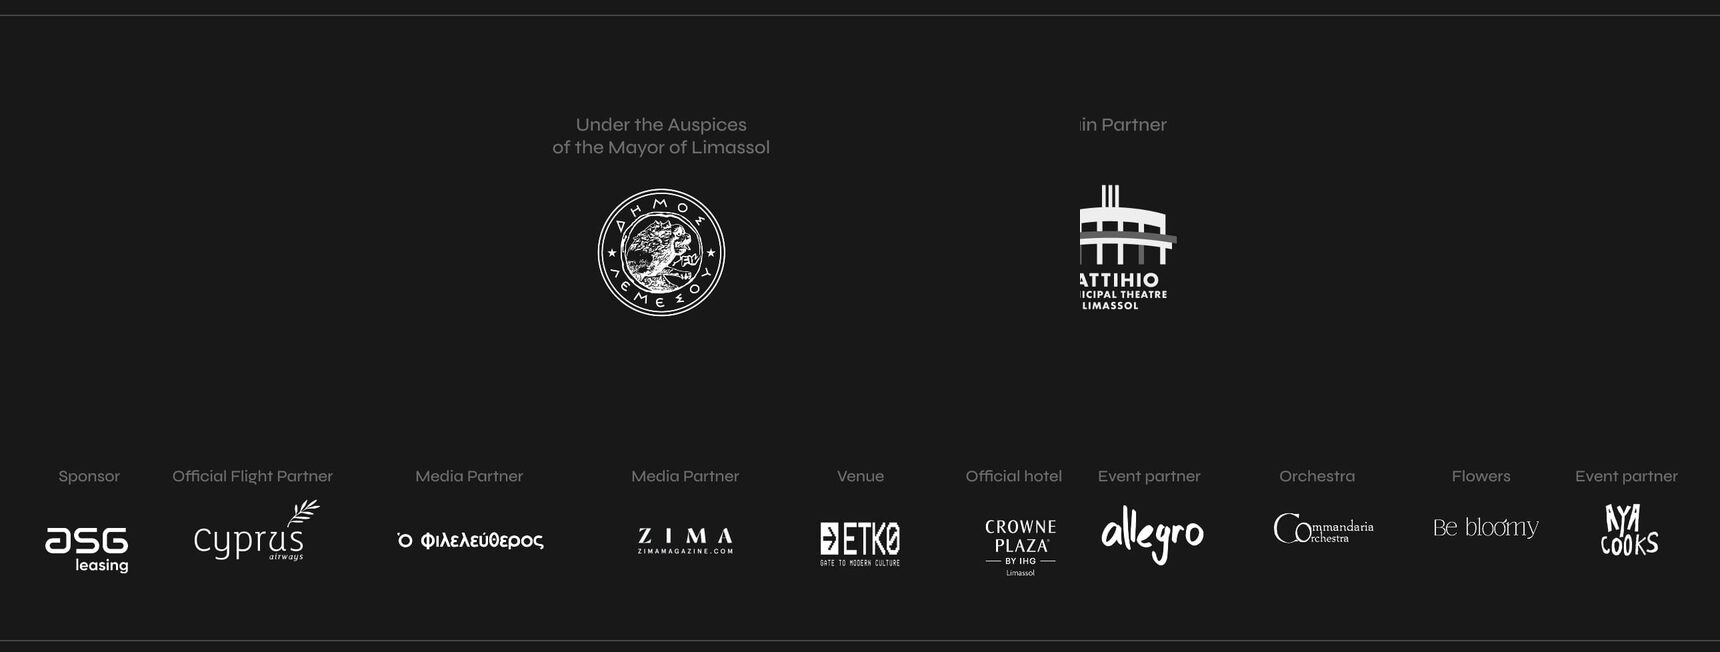
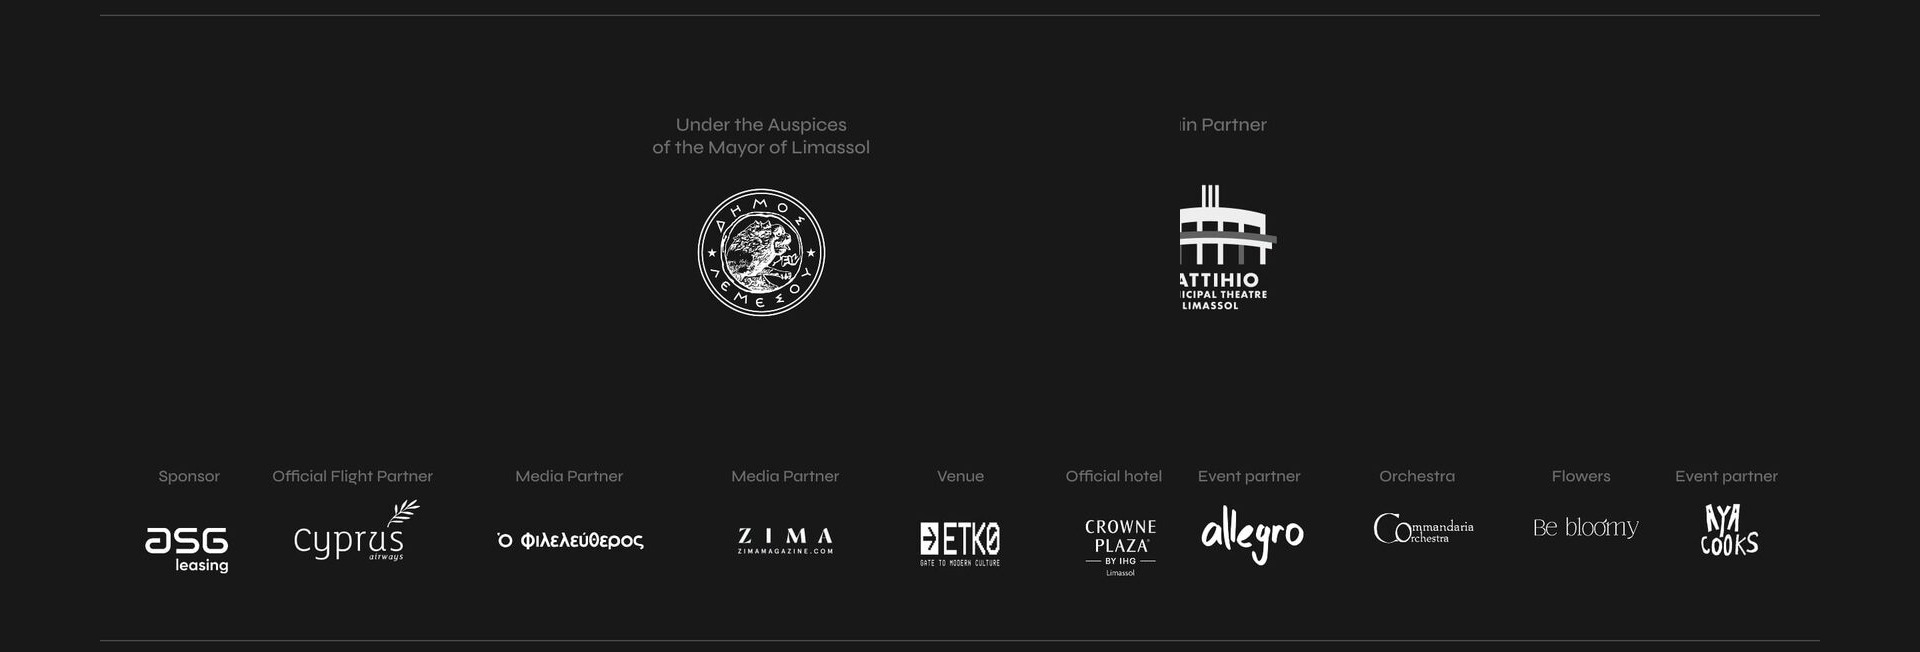
Cassandre tweaks + partner bitmap responsive (no more cropping)
- cassandre-v2: drop the "Cyprus International Theatre Festival ·
  October 2, 2026" kicker above the title (all 3 languages). The big
  CASSANDRE / with Fanny Ardant headline is enough.
- cassandre-v2: drop the "from €30" / "от €30" / "από €30" subtext on
  the floating Buy Ticket button — keep just "Buy Ticket".
- chrome.js partner bitmap CSS: Tilda hard-codes artboard heights
  (489 / 242 / 110) which clip the image when the viewport doesn't
  match the design width. Force artboard + filter + carrier + elem
  wrappers to height:auto, position:relative, width:100%, and the
  image to width:100% / height:auto / object-fit:contain. Logos now
  scale proportionally at every viewport size with no cropping.
- Re-pad partners_desktop.jpg from 1720x652 back to 1920x652 so the
  natural aspect (2.94) matches the original Tilda design — keeps
  the bitmap the source of truth on main + custom pages.

diff --git a/components/chrome.js b/components/chrome.js
@@ -115,10 +115,15 @@
       ".citf-buyfab-inner{display:flex;flex-direction:column;align-items:flex-start}" +
       "@media(max-width:520px){.citf-buyfab{bottom:14px;right:14px;padding:12px 16px;font-size:11px;letter-spacing:0.12em}}" +
 
-      /* No partner-section overrides — chrome shows the SAME Tilda bitmap as
-         the main site (citf.cy/), so header+footer+partners are identical
-         across all pages. The bitmap files on disk have St Raphael cut out;
-         individual logo PNGs in /images/partners/ are kept for future use. */
+      /* Partner bitmap responsive override — Tilda hard-codes the artboard
+         height (489px desktop / 242px tablet / 110px mobile) which clips the
+         image when viewport width changes. Force the artboard to auto-size
+         and the image to keep its natural aspect ratio at any width. */
+      "#rec890778214 .t396__artboard,#rec890778214 .t396__filter,#rec890778214 .t396__carrier{height:auto !important;min-height:0 !important}" +
+      "#rec890781301 .t396__artboard,#rec890781301 .t396__filter,#rec890781301 .t396__carrier{height:auto !important;min-height:0 !important}" +
+      "#rec890778214 .t396__elem,#rec890781301 .t396__elem{position:relative !important;top:auto !important;left:auto !important;width:100% !important;height:auto !important;display:block !important}" +
+      "#rec890778214 .tn-atom,#rec890781301 .tn-atom{display:block !important;width:100% !important;height:auto !important}" +
+      "img[imgfield='tn_img_1741704123132']{width:100% !important;height:auto !important;max-width:100% !important;display:block !important;object-fit:contain !important}" +
       "";
     document.head.appendChild(s);
   }

diff --git a/cassandre-v2.html b/cassandre-v2.html
@@ -23,8 +23,7 @@
   // Floating "Buy Ticket" button config (consumed by /components/chrome.js)
   window.CITF_BUY = {
     url: 'https://www.soldoutticketbox.com/easyconsole.cfm/page/select_seats_newil/block_id/1280&event_day_id=13766&lang=en',
-    en: 'Buy Ticket', ru: 'Купить билет', gr: 'Αγοράστε',
-    sub_en: 'from €30', sub_ru: 'от €30', sub_gr: 'από €30'
+    en: 'Buy Ticket', ru: 'Купить билет', gr: 'Αγοράστε'
   };
 </script>
 
@@ -210,10 +209,6 @@
 <header class="hero">
   <div class="hero-content-wrap">
     <div class="hero-content">
-      <span class="hero-kicker" data-en>Cyprus International Theatre Festival · October 2, 2026</span>
-      <span class="hero-kicker" data-ru>Кипрский международный театральный фестиваль · 2 октября 2026</span>
-      <span class="hero-kicker" data-gr>Διεθνές Φεστιβάλ Θεάτρου Κύπρου · 2 Οκτωβρίου 2026</span>
-
       <h1 data-en><span class="h1-main">CASSANDRE</span><span class="h1-sub">with Fanny Ardant</span></h1>
       <h1 data-ru><span class="h1-main">КАССАНДРА</span><span class="h1-sub">с Фанни Ардан</span></h1>
       <h1 data-gr><span class="h1-main">ΚΑΣΣΑΝΔΡΑ</span><span class="h1-sub">με τη Φανί Αρντάν</span></h1>
